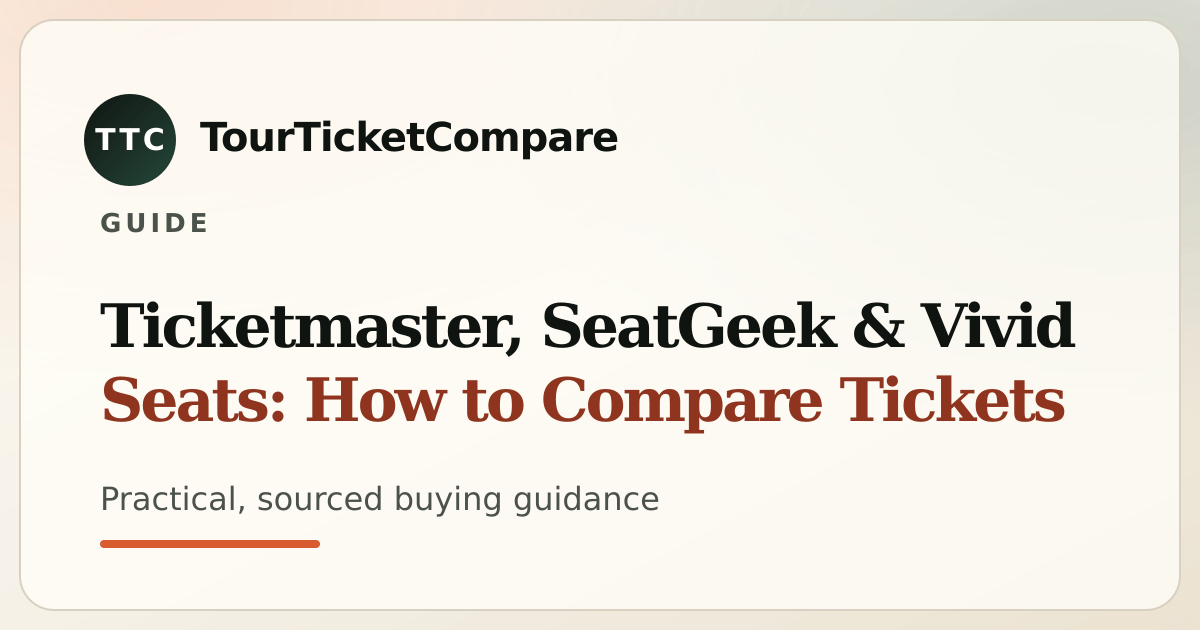
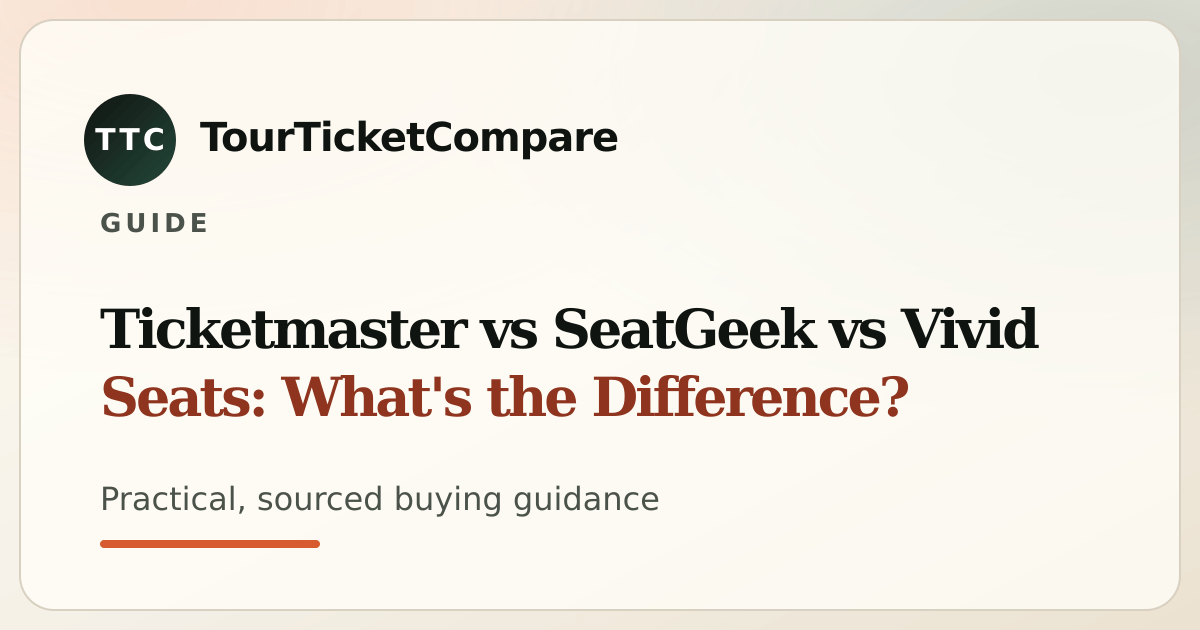
content: publish Olivia Rodrigo tour guide
Owner-approved 2026-11-02. Compiled with blog:build and og:build; og:build also
refreshed the stale card for the renamed Ticketmaster vs SeatGeek vs Vivid Seats guide.

Claude-Session: https://claude.ai/code/session_01VdqvQd7vKfKYjrKC8AQ31J

Changed region(s): [[0.0617, 0.4825, 0.8942, 0.6937]]

diff --git a/functions/_og-cards.generated.js b/functions/_og-cards.generated.js
@@ -765,6 +765,7 @@ export const OG_CARDS = {
   "/blog/niall-horan-tour-ticket-prices-by-city": {"url":"/og/blog-niall-horan-tour-ticket-prices-by-city.png","alt":"Blog: Niall Horan tour tickets: listed prices city by city"},
   "/blog/oasis-live-27-code-only-ticket-sale": {"url":"/og/blog-oasis-live-27-code-only-ticket-sale.png","alt":"Blog: Oasis Live '27: what a code-only ticket sale changes"},
   "/blog/oasis-live-27-ticket-prices": {"url":"/og/blog-oasis-live-27-ticket-prices.png","alt":"Blog: Oasis Live '27 ticket prices: how to read what you see"},
+  "/blog/olivia-rodrigo-tour-guide": {"url":"/og/blog-olivia-rodrigo-tour-guide.png","alt":"Blog: Olivia Rodrigo tour: dates, cities and how to choose"},
   "/blog/olivia-rodrigo-tour-ticket-prices-by-city": {"url":"/og/blog-olivia-rodrigo-tour-ticket-prices-by-city.png","alt":"Blog: Olivia Rodrigo tour tickets: listed prices city by city"},
   "/blog/olivia-rodrigo-unraveled-tour-ticket-types": {"url":"/og/blog-olivia-rodrigo-unraveled-tour-ticket-types.png","alt":"Blog: Three kinds of Olivia Rodrigo ticket, and what each one means"},
   "/blog/pentatonix-tour-ticket-prices-by-city": {"url":"/og/blog-pentatonix-tour-ticket-prices-by-city.png","alt":"Blog: Pentatonix tour tickets: listed prices city by city"},
@@ -878,7 +879,7 @@ export const OG_CARDS = {
   "/guides/seatgeek-vs-ticketmaster": {"url":"/og/guides-seatgeek-vs-ticketmaster.png","alt":"Guide: SeatGeek vs Ticketmaster: Which Is Better or Cheaper?"},
   "/guides/stubhub-international-explained": {"url":"/og/guides-stubhub-international-explained.png","alt":"Guide: What is StubHub International, and why does it open stubhub.ie?"},
   "/guides/ticket-delivery-and-transfer-timing": {"url":"/og/guides-ticket-delivery-and-transfer-timing.png","alt":"Guide: How do ticket delivery and transfer timing affect risk?"},
-  "/guides/ticketmaster-vs-seatgeek-vs-vivid-seats": {"url":"/og/guides-ticketmaster-vs-seatgeek-vs-vivid-seats.png","alt":"Guide: Ticketmaster, SeatGeek & Vivid Seats: How to Compare Tickets"},
+  "/guides/ticketmaster-vs-seatgeek-vs-vivid-seats": {"url":"/og/guides-ticketmaster-vs-seatgeek-vs-vivid-seats.png","alt":"Guide: Ticketmaster vs SeatGeek vs Vivid Seats: What's the Difference?"},
   "/guides/ticketmaster-vs-stubhub": {"url":"/og/guides-ticketmaster-vs-stubhub.png","alt":"Guide: How should I compare Ticketmaster and StubHub?"},
   "/guides/ticketnetwork-vs-ticketmaster": {"url":"/og/guides-ticketnetwork-vs-ticketmaster.png","alt":"Guide: How should I compare TicketNetwork and Ticketmaster?"},
   "/guides/vivid-seats-promo-codes-and-fees": {"url":"/og/guides-vivid-seats-promo-codes-and-fees.png","alt":"Guide: How do Vivid Seats promo codes and fees work?"},

diff --git a/content/blog/olivia-rodrigo-tour-guide.md b/content/blog/olivia-rodrigo-tour-guide.md
@@ -4,7 +4,7 @@ seo_title: 'Olivia Rodrigo tour: where to go'
 description: 'Lowest listed Olivia Rodrigo prices by city on StubHub International, TicketNetwork and Vivid Seats when checked on 2026-11-02, plus what moved over 30 days.'
 summary: 'When checked on 2026-11-02, each ticket site''s lowest listed price across these seven dates was for London or Seattle. Oakland and Sacramento listings moved down over 30 days, and Inglewood moved up.'
 date: 2026-11-02
-status: draft
+status: published
 tags: [tour-buying]
 related_artists: [olivia-rodrigo]
 related_guides: [how-to-read-a-ticket-listing, primary-vs-resale-concert-tickets, ticket-delivery-and-transfer-timing]
